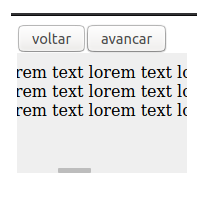
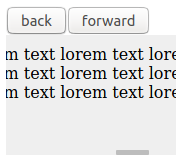
stop at width limit

Changed region(s): [[0.027, 0.0301, 0.973, 0.6024], [0.6216, 0.9036, 0.8108, 0.9337], [0.2703, 0.8434, 0.4324, 0.8735]]

diff --git a/ScrollingButtons.js b/ScrollingButtons.js
@@ -13,7 +13,10 @@ export default () => {
 
     const handleScroll = (e, next = true) => {
         e.preventDefault();
+
+        const boxWidth = refScroll.current.scrollWidth - 200;
         startScrolling = true;
+
 
         const prepareValScroll = (val, add=0) => {
             if (val <= 0) {
@@ -22,17 +25,24 @@ export default () => {
             return val;
         }
 
-        const eventScrolling = () => {            
+        const eventScrolling = () => {     
+            
+            console.log(positionScroll);
+           console.log(boxWidth);
+
             if (next) {
                 positionScroll += 50;
                 refScroll.current.scroll(prepareValScroll(positionScroll, 50), 0);
             } else {
-                positionScroll -= 50;            
+                positionScroll -= 50;                
                 refScroll.current.scroll(prepareValScroll(positionScroll), 0);
             }
         }
 
         const timeScrolling = () => {
+            if (next && positionScroll >= boxWidth) {
+                return false;
+            }
             if (startScrolling && positionScroll > 0) {
                 eventScrolling();
                 setTimeout(() => {
@@ -41,6 +51,10 @@ export default () => {
             }
         }
         
+        if ((next && positionScroll >= boxWidth)
+            || (!next && positionScroll <= 0)) {
+            return false;
+        }
         eventScrolling();
         timeScrolling();
     }
@@ -50,11 +64,11 @@ export default () => {
             <button
                 onMouseDown={(e) => handleScroll(e, false)}
                 onMouseUp={(e) => handleStopScrolling(e)}
-                >voltar</button>
+                >back</button>
             <button
                 onMouseDown={(e) => handleScroll(e)}
                 onMouseUp={(e) => handleStopScrolling(e)}
-            >avancar</button>
+            >forward</button>
 
             <div style={{
                 height: '100px',
@@ -62,7 +76,8 @@ export default () => {
                 backgroundColor: '#efefef',
                 padding: '10px 25px',
                 overflow: 'auto',
-                whiteSpace: 'noWrap'
+                whiteSpace: 'noWrap',
+                scrollBehavior: 'smooth'
             }}
                 ref={refScroll}
             >
